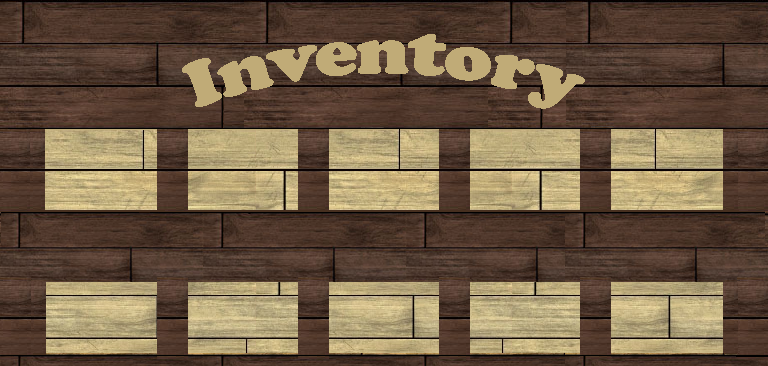
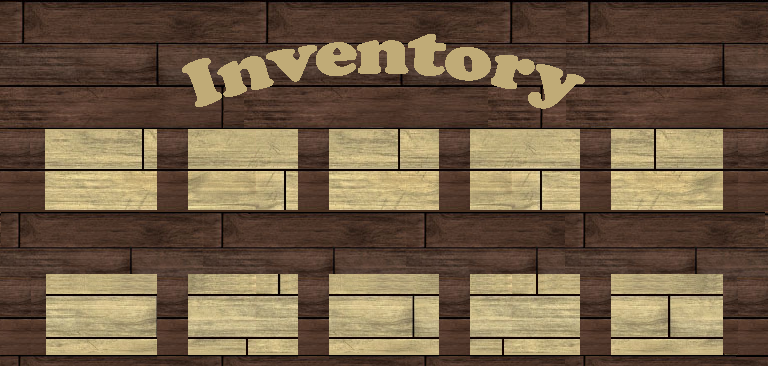
Fixed null error on boss room generation.

diff --git a/src/fr/iutvalence/m2107/p24/MiniMap.java b/src/fr/iutvalence/m2107/p24/MiniMap.java
@@ -133,12 +133,12 @@ public class MiniMap {
 	 * Also put key item on four random room on the map.
 	 */
 	private void generateBossRoom() {
-		Position bossPos = Position.randomPosition(-9, 10, -9, 10);
+		Position bossPos = Position.randomPosition(-8, 8, -8, 8);
 		Direction bossDir = Direction.randomDirection();
 		/*Position bossPos = new Position(0, -2);
 		Direction bossDir = Direction.DOWN;*/
 		while(bossPos.equals(Player.DEFAULT_ROOM_POSITION)) {
-			bossPos = Position.randomPosition(-9, 10, -9, 10);
+			bossPos = Position.randomPosition(-8, 8, -8, 8);
 		}
 		
 		int i;
@@ -150,46 +150,71 @@ public class MiniMap {
 
 		Position keyPos = bossPos.copy();
 		Direction keyDir = null;
+		Room r = null;
 		switch (bossDir) {
 			case UP:
-				this.getRoomAt(new Position(bossPos.getX()+1, bossPos.getY())).setDoor(Direction.LEFT, false);
-				this.getRoomAt(new Position(bossPos.getX()-1, bossPos.getY())).setDoor(Direction.RIGHT, false);
-				this.getRoomAt(new Position(bossPos.getX(), bossPos.getY()+1)).setDoor(Direction.UP, false);
+				r = this.getRoomAt(new Position(bossPos.getX()+1, bossPos.getY()));
+				if(r != null) r.setDoor(Direction.LEFT, false);
+				r = this.getRoomAt(new Position(bossPos.getX()-1, bossPos.getY()));
+				if(r != null) r.setDoor(Direction.RIGHT, false);
+				r = this.getRoomAt(new Position(bossPos.getX(), bossPos.getY()+1));
+				if(r != null) r.setDoor(Direction.UP, false);
 				keyDir = Direction.DOWN;
 				keyPos.move(0, -1);
-				this.getRoomAt(new Position(keyPos.getX()+1, keyPos.getY())).setDoor(Direction.LEFT, false);
-				this.getRoomAt(new Position(keyPos.getX()-1, keyPos.getY())).setDoor(Direction.RIGHT, false);
-				this.getRoomAt(new Position(keyPos.getX(), keyPos.getY()-1)).setDoor(Direction.DOWN, true);
+				r = this.getRoomAt(new Position(keyPos.getX()+1, keyPos.getY()));
+				if(r != null) r.setDoor(Direction.LEFT, false);
+				r = this.getRoomAt(new Position(keyPos.getX()-1, keyPos.getY()));
+				if(r != null) r.setDoor(Direction.RIGHT, false);
+				r = this.getRoomAt(new Position(keyPos.getX(), keyPos.getY()-1));
+				if(r != null) r.setDoor(Direction.DOWN, true);
 				break;
 			case RIGHT: 
-				this.getRoomAt(new Position(bossPos.getX(), bossPos.getY()+1)).setDoor(Direction.UP, false);
-				this.getRoomAt(new Position(bossPos.getX(), bossPos.getY()-1)).setDoor(Direction.DOWN, false);
-				this.getRoomAt(new Position(bossPos.getX()-1, bossPos.getY())).setDoor(Direction.RIGHT, false);
+				r = this.getRoomAt(new Position(bossPos.getX(), bossPos.getY()+1));
+				if(r != null) r.setDoor(Direction.UP, false);
+				r = this.getRoomAt(new Position(bossPos.getX(), bossPos.getY()-1));
+				if(r != null) r.setDoor(Direction.DOWN, false);
+				r = this.getRoomAt(new Position(bossPos.getX()-1, bossPos.getY()));
+				if(r != null) r.setDoor(Direction.RIGHT, false);
 				keyDir = Direction.LEFT;
 				keyPos.move(+1, 0);
-				this.getRoomAt(new Position(keyPos.getX(), keyPos.getY()+1)).setDoor(Direction.UP, false);
-				this.getRoomAt(new Position(keyPos.getX(), keyPos.getY()-1)).setDoor(Direction.DOWN, false);
-				this.getRoomAt(new Position(keyPos.getX()+1, keyPos.getY())).setDoor(Direction.LEFT, true);
+				r = this.getRoomAt(new Position(keyPos.getX(), keyPos.getY()+1));
+				if(r != null) r.setDoor(Direction.UP, false);
+				r = this.getRoomAt(new Position(keyPos.getX(), keyPos.getY()-1));
+				if(r != null) r.setDoor(Direction.DOWN, false);
+				r = this.getRoomAt(new Position(keyPos.getX()+1, keyPos.getY()));
+				if(r != null) r.setDoor(Direction.LEFT, true);
 				break;
 			case DOWN:
-				this.getRoomAt(new Position(bossPos.getX()+1, bossPos.getY())).setDoor(Direction.LEFT, false);
-				this.getRoomAt(new Position(bossPos.getX()-1, bossPos.getY())).setDoor(Direction.RIGHT, false);
-				this.getRoomAt(new Position(bossPos.getX(), bossPos.getY()-1)).setDoor(Direction.DOWN, false);
+				r = this.getRoomAt(new Position(bossPos.getX()+1, bossPos.getY()));
+				if(r != null) r.setDoor(Direction.LEFT, false);
+				r = this.getRoomAt(new Position(bossPos.getX()-1, bossPos.getY()));
+				if(r != null) r.setDoor(Direction.RIGHT, false);
+				r = this.getRoomAt(new Position(bossPos.getX(), bossPos.getY()-1));
+				if(r != null) r.setDoor(Direction.DOWN, false);
 				keyDir = Direction.UP;
 				keyPos.move(0, +1);
-				this.getRoomAt(new Position(keyPos.getX()+1, keyPos.getY())).setDoor(Direction.LEFT, false);
-				this.getRoomAt(new Position(keyPos.getX()-1, keyPos.getY())).setDoor(Direction.RIGHT, false);
-				this.getRoomAt(new Position(keyPos.getX(), keyPos.getY()+1)).setDoor(Direction.UP, true);
+				r = this.getRoomAt(new Position(keyPos.getX()+1, keyPos.getY()));
+				if(r != null) r.setDoor(Direction.LEFT, false);
+				r = this.getRoomAt(new Position(keyPos.getX()-1, keyPos.getY()));
+				if(r != null) r.setDoor(Direction.RIGHT, false);
+				r = this.getRoomAt(new Position(keyPos.getX(), keyPos.getY()+1));
+				if(r != null) r.setDoor(Direction.UP, true);
 				break;
 			case LEFT: 
-				this.getRoomAt(new Position(bossPos.getX(), bossPos.getY()+1)).setDoor(Direction.UP, false);
-				this.getRoomAt(new Position(bossPos.getX(), bossPos.getY()-1)).setDoor(Direction.DOWN, false);
-				this.getRoomAt(new Position(bossPos.getX()+1, bossPos.getY())).setDoor(Direction.LEFT, false);
+				r = this.getRoomAt(new Position(bossPos.getX(), bossPos.getY()+1));
+				if(r != null) r.setDoor(Direction.UP, false);
+				r = this.getRoomAt(new Position(bossPos.getX(), bossPos.getY()-1));
+				if(r != null) r.setDoor(Direction.DOWN, false);
+				r = this.getRoomAt(new Position(bossPos.getX()+1, bossPos.getY()));
+				if(r != null) r.setDoor(Direction.LEFT, false);
 				keyDir = Direction.RIGHT;
 				keyPos.move(-1, 0);
-				this.getRoomAt(new Position(keyPos.getX(), keyPos.getY()+1)).setDoor(Direction.UP, false);
-				this.getRoomAt(new Position(keyPos.getX(), keyPos.getY()-1)).setDoor(Direction.DOWN, false);
-				this.getRoomAt(new Position(keyPos.getX()-1, keyPos.getY())).setDoor(Direction.RIGHT, true);
+				r = this.getRoomAt(new Position(keyPos.getX(), keyPos.getY()+1));
+				if(r != null) r.setDoor(Direction.UP, false);
+				r = this.getRoomAt(new Position(keyPos.getX(), keyPos.getY()-1));
+				if(r != null) r.setDoor(Direction.DOWN, false);
+				r = this.getRoomAt(new Position(keyPos.getX()-1, keyPos.getY()));
+				if(r != null) r.setDoor(Direction.RIGHT, true);
 				break;
 			default: break;
 		}
@@ -201,7 +226,9 @@ public class MiniMap {
 		this.rooms.add(new KeyRoom(keyPos, keyDir));
 		
 		for(i = 0; i < 4; i++) { // add the key on random rooms.
-			this.rooms.get(random.nextInt(this.rooms.size())).addItem(new Key());
+			Room k = this.getRoomAt(Player.DEFAULT_ROOM_POSITION);
+			//this.rooms.get(random.nextInt(this.rooms.size())).addItem(new Key());
+			k.addItem(new Key());
 		}
 	}
 	

diff --git a/src/fr/iutvalence/m2107/p24/display/InventoryDisplay.java b/src/fr/iutvalence/m2107/p24/display/InventoryDisplay.java
@@ -49,20 +49,23 @@ public class InventoryDisplay extends Inventory {
 		g.setColor(Color.BLACK);
 		
 		int x = 30;
-		int y = GamePanel.HEIGHT - 100;
+		int y = GamePanel.HEIGHT - 92;
 		for(int s = 0; s < this.slots.length; s++){
 			Item item = this.slots[s].getItem();
 			int quantity = this.slots[s].getQuantity();
 			if(s == 5) {
 				x = 30;
-				y = GamePanel.HEIGHT - 50;		
+				y += 47;		
 			}
 			if(item != null) {
-				g.drawImage(item.getImage(), x, y, item.getImage().getWidth()/4, item.getImage().getHeight()/4, null);
+				g.drawImage(item.getImage(), x, y, 30, 30, null);
 				g.drawString(""+quantity, x + 20, y + 30);
 			}
-			if(s == this.selectedSlot) g.drawRect(x, y, 40, 40);
-			x += 50;
+			if(s == this.selectedSlot) {
+				g.drawRect(x, y, 35, 26);
+				g.drawRect(x-1, y-1, 37, 28);
+			}
+			x += 46;
 		}
 	}
 
